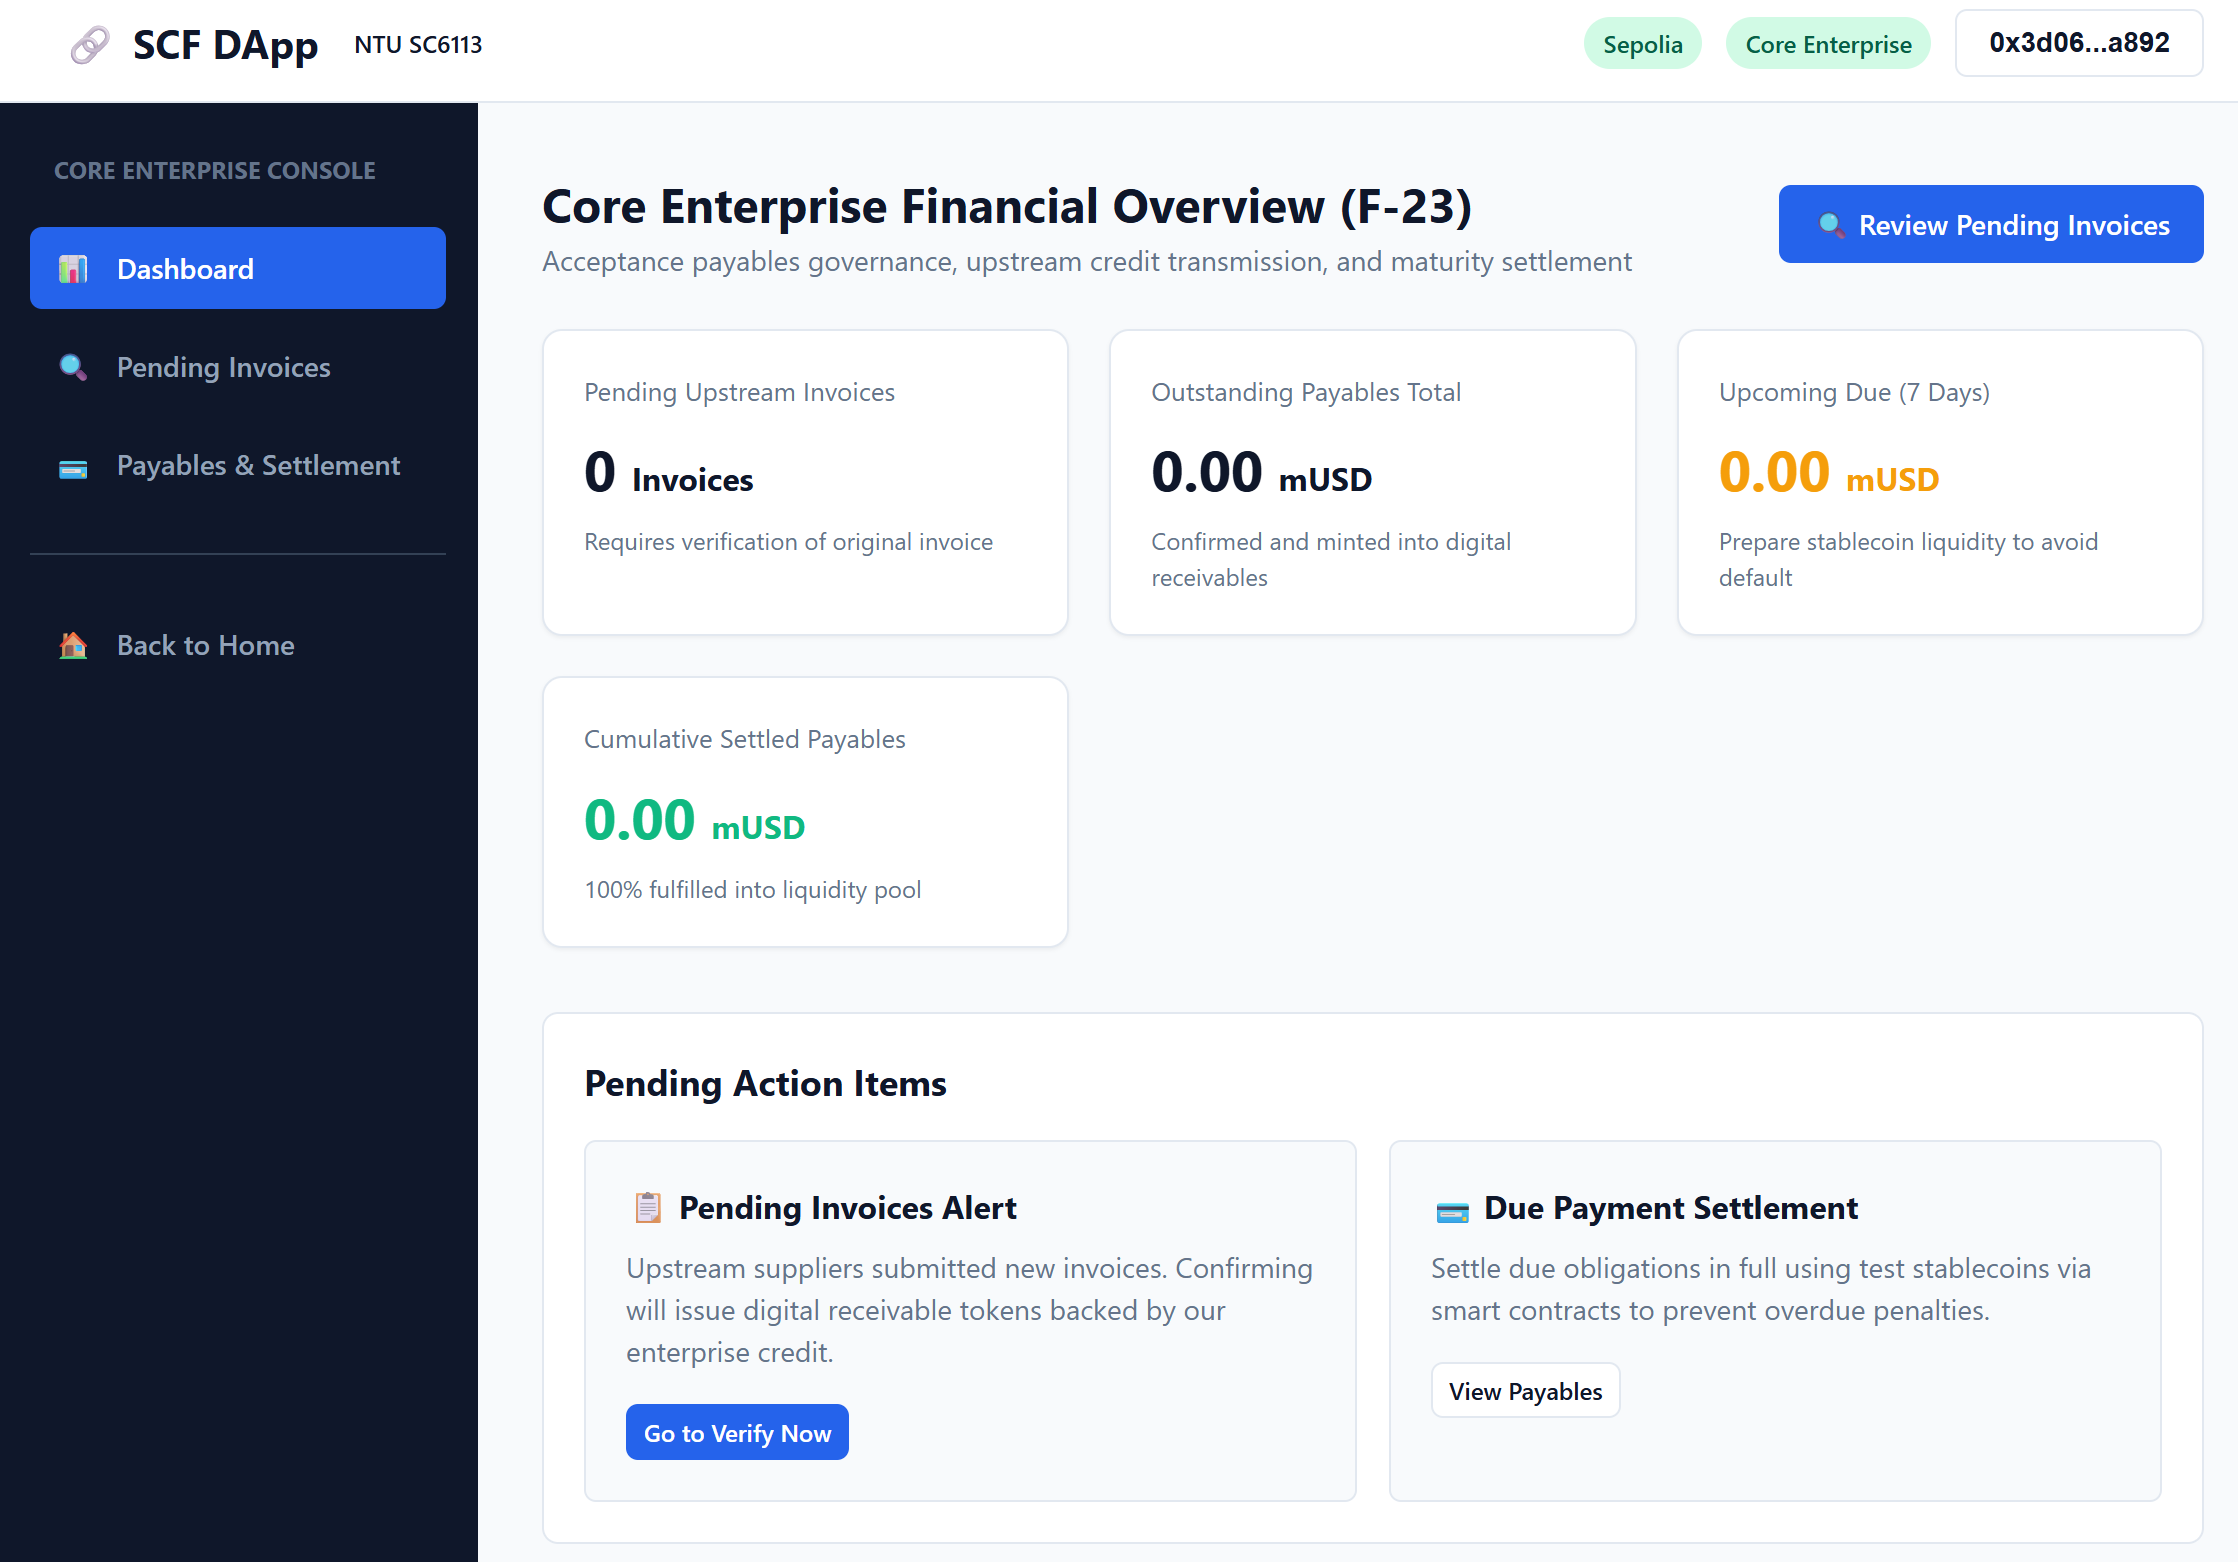
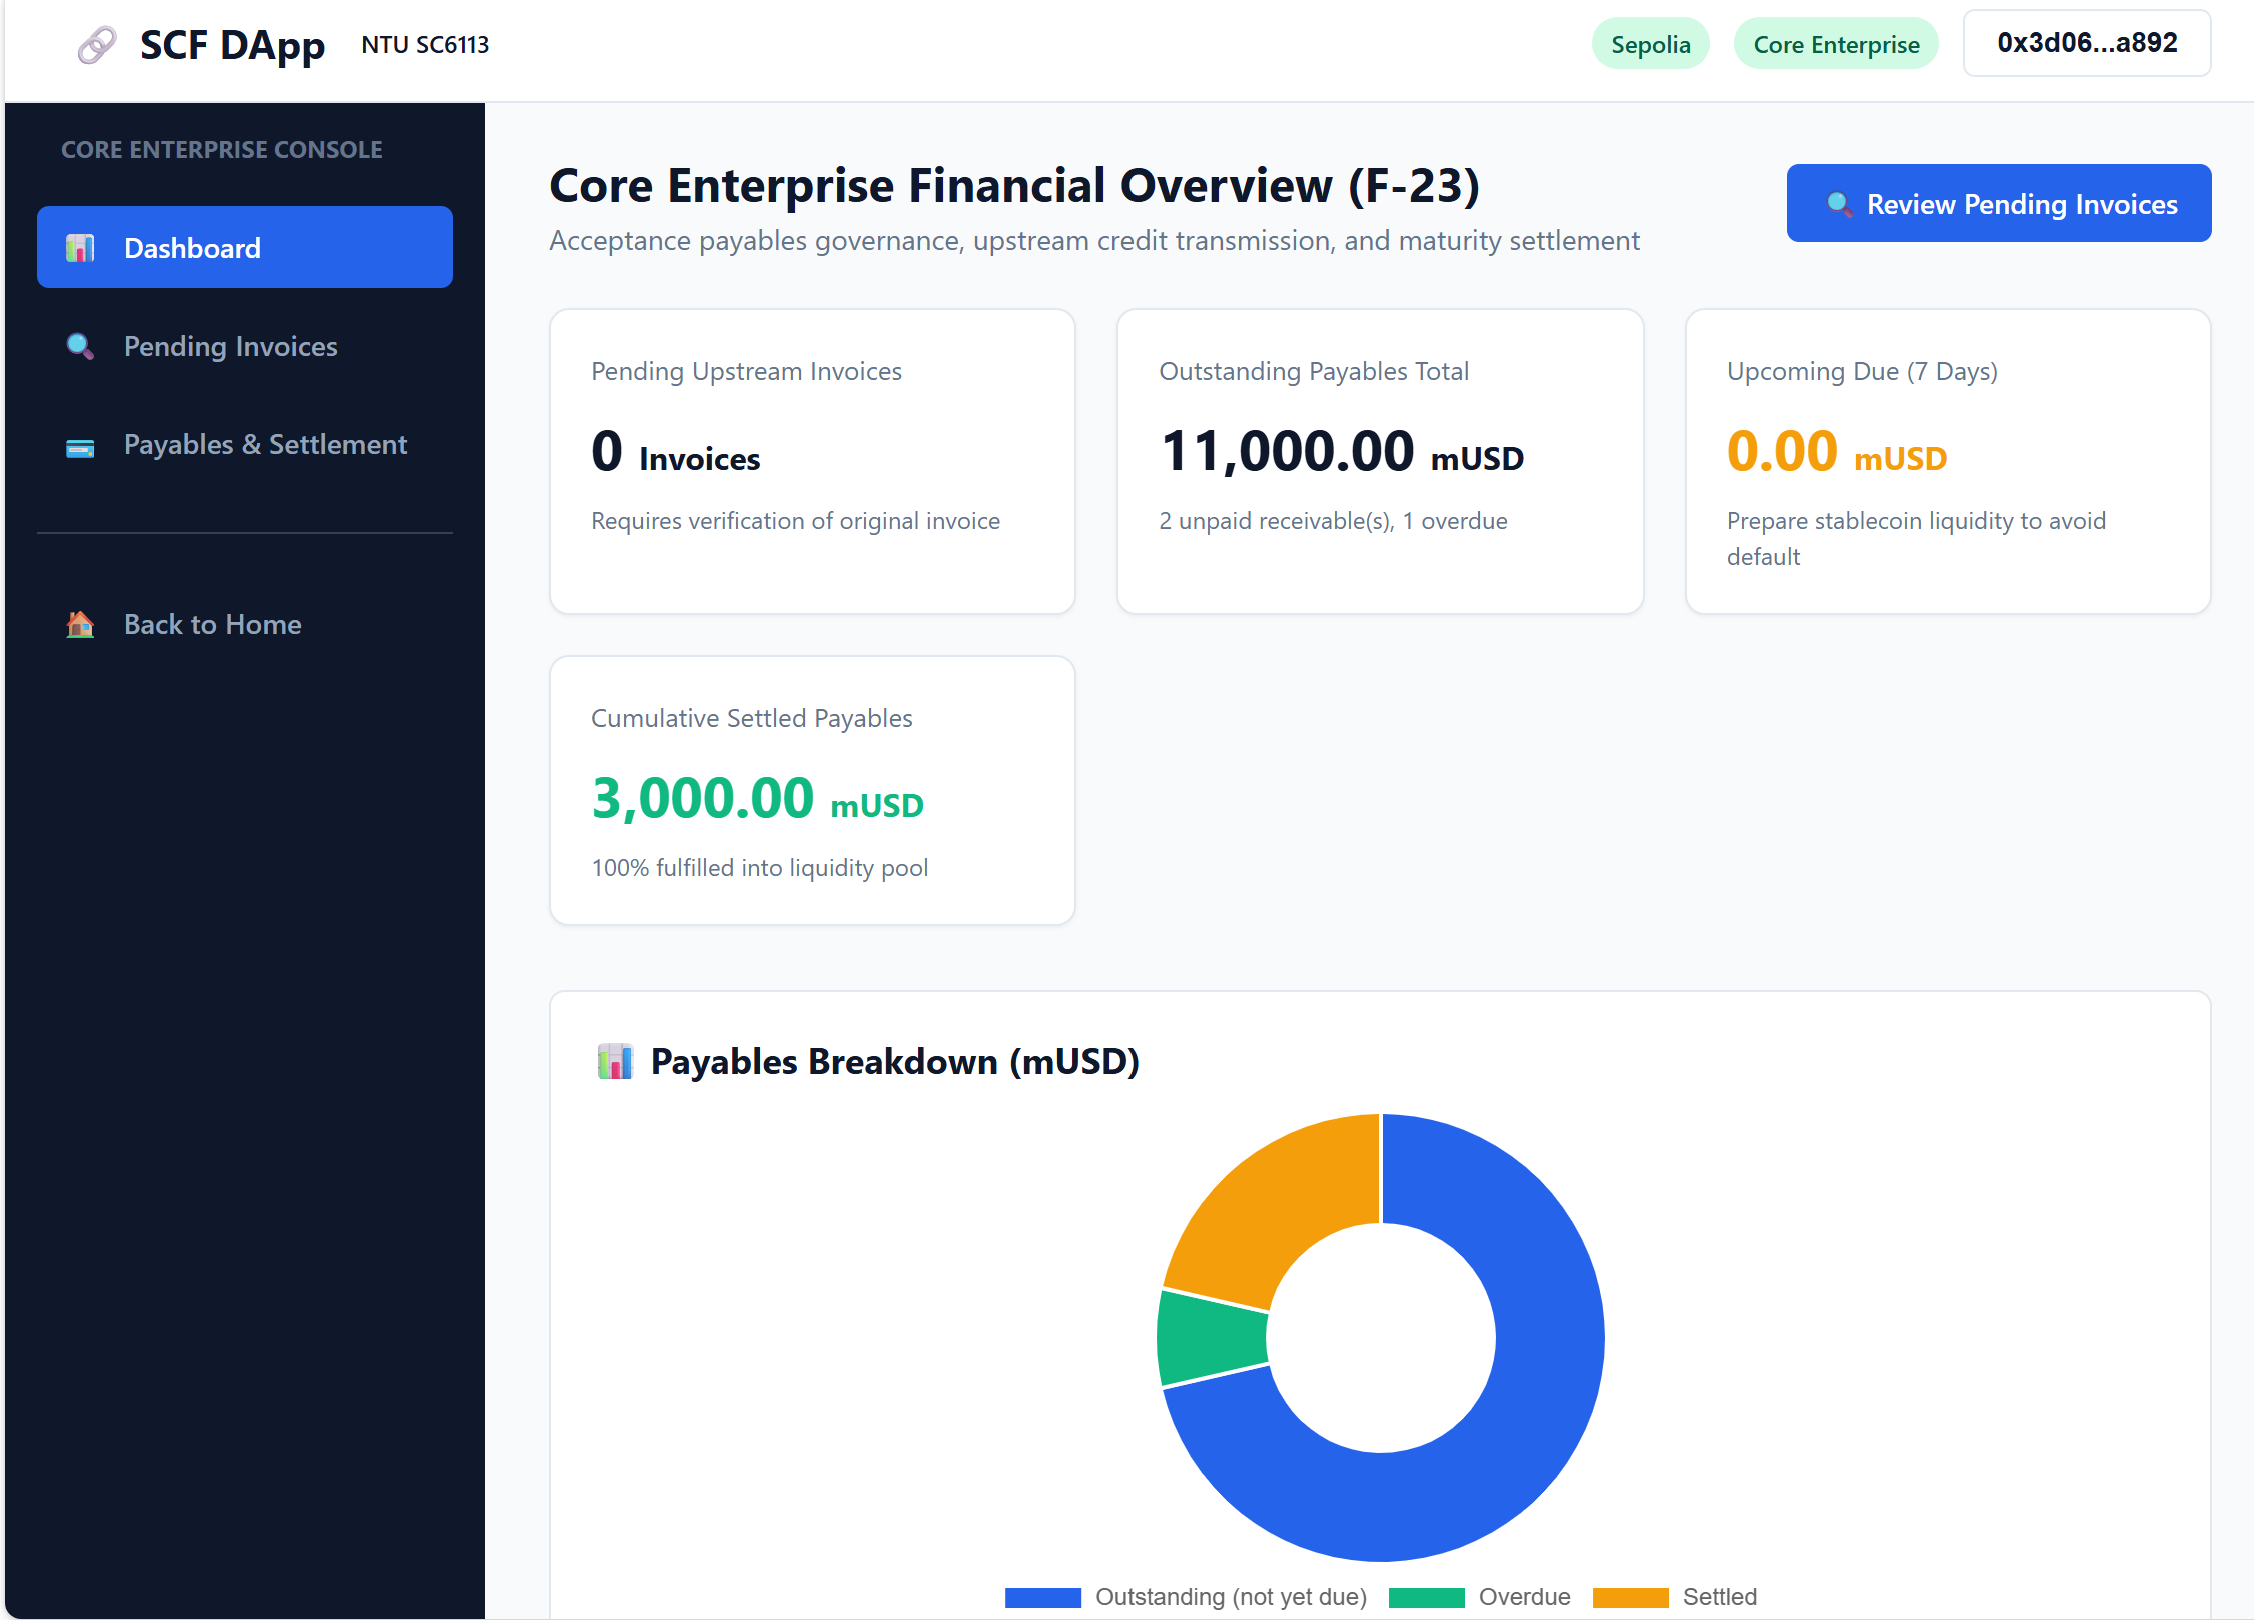
[Docs] Retest dashboards after BUG-12 fix; close BUG-09/11/12 (Member 6)

diff --git a/docs/testing/defect-log.md b/docs/testing/defect-log.md
@@ -3,7 +3,7 @@
 > **Owner**: YANG SHUYI (Member 6)
 > **Related**: [Test Plan](test-plan.md) · [Test Cases](test-cases.md)
 
-Fixes for BUG-05, 06, 08, 09 and 10 were merged into `feature/backend-member2` as `6a54755` on 2026-10-12 19:57 and deployed to Render.
+Fixes for BUG-05, 06, 08, 09 and 10 were merged into `feature/backend-member2` as `6a54755` (2026-10-12 19:57); fixes for BUG-11 and 12 as `8c0fc51` (20:47). Both were deployed to Render and retested.
 
 Severity: **P0** main flow blocked / funds incorrect · **P1** feature fails acceptance criteria · **P2** wording, display or usability issue.
 
@@ -19,10 +19,10 @@ Severity: **P0** main flow blocked / funds incorrect · **P1** feature fails acc
 | BUG-06 | Contract revert reasons shown as raw "unknown custom error" hex | P2 | Member 3 | 2026-10-12 | ✅ Closed | `fix/frontend-bug05-06-08` (`3a9d48a`) | 2026-10-12 ✅ (`RETEST-BUG-06.png`) |
 | BUG-07 | Cancelling the wallet transaction leaves a backend draft that blocks the invoice number forever | **P1** | Member 2 / Member 3 | 2026-10-12 | ⚪ Deferred (team decision 2026-10-12; workaround: use a new invoice number) | — | — |
 | BUG-08 | No way to view/download the invoice PDF or check the hash in the UI | **P1** | Member 3 | 2026-10-12 | ✅ Closed | `fix/frontend-bug05-06-08` (`3a9d48a`) | 2026-10-12 ✅ (`RETEST-BUG-08.png`) |
-| BUG-09 | Auditor tracing page always shows "Unfrozen"; cannot unfreeze after reload | **P1** | Member 3 | 2026-10-12 | 🟢 Fixed & deployed, retest pending | `fix/frontend-bug05-06-08` (`be4c359`) | — |
+| BUG-09 | Auditor tracing page always shows "Unfrozen"; cannot unfreeze after reload | **P1** | Member 3 | 2026-10-12 | ✅ Closed | `fix/frontend-bug05-06-08` (`be4c359`) | 2026-10-12 ✅ (#5 shown as Unfrozen after reload, matching chain) |
 | BUG-10 | "Apply Financing" button does nothing (calls a non-existent function) | **P0** | Member 3 | 2026-10-12 | ✅ Closed | `fix/frontend-bug05-06-08` (`ce8bcf2`) | 2026-10-12 ✅ (TC-F15-01/02) |
-| BUG-11 | Withdrawn quotes still show an "Accept" button | P2 | Member 3 | 2026-10-12 | 🟡 Fixed on branch, not merged | `fix/dashboard-bug11-12` (`096318b`) | — |
-| BUG-12 | Dashboard KPIs hard-coded / wrong, and no charts (data visualisation missing) | **P1** | Member 3 | 2026-10-12 | 🟡 Fixed on branch, not merged | `fix/dashboard-bug11-12` (`096318b`) | — |
+| BUG-11 | Withdrawn quotes still show an "Accept" button | P2 | Member 3 | 2026-10-12 | ✅ Closed | `fix/dashboard-bug11-12` (`096318b`) | 2026-10-12 ✅ (deployed code verified; no withdrawn quote left to display) |
+| BUG-12 | Dashboard KPIs hard-coded / wrong, and no charts (data visualisation missing) | **P1** | Member 3 | 2026-10-12 | ✅ Closed | `fix/dashboard-bug11-12` (`096318b`) | 2026-10-12 ✅ (TC-F23-02/03/04 retest) |
 | KI-01 | MetaMask flags the site as "Malicious" | — (known issue) | Member 2 (informed) | 2026-10-12 | ⚠ Won't fix | — | — |
 | KI-02 | Transactions fail when MetaMask "smart account" (EIP-7702) is enabled | — (known issue / environment) | Member 3 (error message) | 2026-10-12 | ⚠ Workaround | — | — |
 

diff --git a/docs/testing/test-cases.md b/docs/testing/test-cases.md
@@ -255,10 +255,10 @@
 
 | ID | Scenario | Account | Steps / Input | Expected Result | Result | Evidence |
 |---|---|---|---|---|---|---|
-| TC-F23-01 | Supplier dashboard | S1 | Open dashboard | Total receivables held, amount financed, pending items, charts; figures match reality | ✅ Pass — held 1,000 and cumulative funded 8,730 match on-chain; no chart (BUG-12) | `TC-F23-01.png` |
-| TC-F23-02 | Core-enterprise dashboard | CE | Same | Pending invoices, total payables, upcoming payments, overdue records | ❌ Fail (BUG-12) — outstanding payables / settled shown as 0.00 | `TC-F23-02.png` |
-| TC-F23-03 | Funder dashboard | F1 | Same | Total funded, outstanding amount, overdue count | ❌ Fail (BUG-12) — total disbursed shown as 0.00 (should be 8,730) | `TC-F23-03.png` |
-| TC-F23-04 | Auditor overview | AU | Same | Platform invoice count, total receivables, total financing, overdue rate | ❌ Fail (BUG-12) — financed principal 0.00, overdue rate 0.00%, invoice count includes drafts | `TC-F23-04.png` |
+| TC-F23-01 | Supplier dashboard | S1 | Open dashboard | Total receivables held, amount financed, pending items, charts; figures match reality | ✅ Pass — held 1,000 and cumulative funded 8,730 match on-chain; bar chart added by BUG-12 fix | `TC-F23-01.png` |
+| TC-F23-02 | Core-enterprise dashboard | CE | Same | Pending invoices, total payables, upcoming payments, overdue records | ✅ Pass after BUG-12 fix — outstanding 11,000 (2 unpaid, 1 overdue), settled 3,000, doughnut chart; minor: chart colours for Overdue/Settled are counter-intuitive | `TC-F23-02.png` (retest) |
+| TC-F23-03 | Funder dashboard | F1 | Same | Total funded, outstanding amount, overdue count | ✅ Pass after BUG-12 fix — disbursed 8,730, pending repayment 6,000, bar chart | `TC-F23-03.png` (retest) |
+| TC-F23-04 | Auditor overview | AU | Same | Platform invoice count, total receivables, total financing, overdue rate | ✅ Pass after BUG-12 fix — 4 on-chain invoices, 14,000 minted, 9,000 financed, overdue rate 33.33%, doughnut chart; minor: subtitle under overdue rate is static ("healthy") | `TC-F23-04.png` (retest) |
 | TC-F23-05 | Data isolation | S2 | Open dashboard | Only S2's own data; nothing from S1 | ⏭ Out of scope — not required by course brief; API scoping covered by backend unit tests (`test_queries.py`) |  |
 | TC-F23-06 | Mobile display | Any | Chrome DevTools iPhone viewport, or a real phone | Layout intact, no horizontal scrolling, buttons tappable | ✅ Pass — at phone width the sidebar and KPI cards stack vertically, no horizontal scrolling | `TC-F23-06.png` |
 | TC-F24-01 | Transaction history | S1 | Open Transaction History | All of S1's on-chain transactions listed, each with a working Etherscan link | ✅ Pass — S1's transactions listed with block number, time and working Etherscan links; minor: action label is derived from the emitted event (e.g. acceptQuote shown as TRANSFER) | `TC-F24-01.png` |
